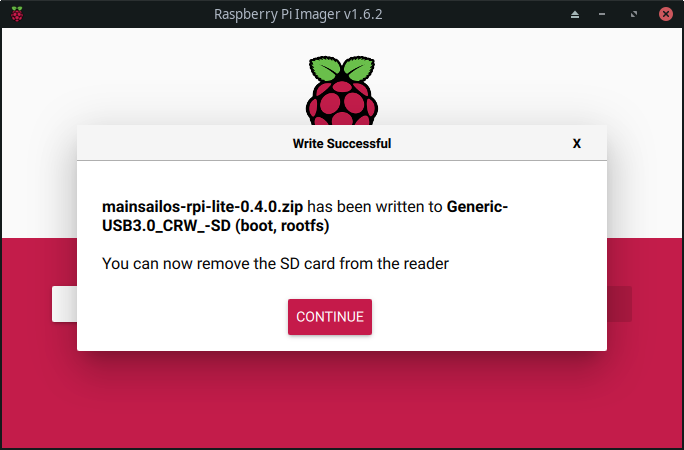
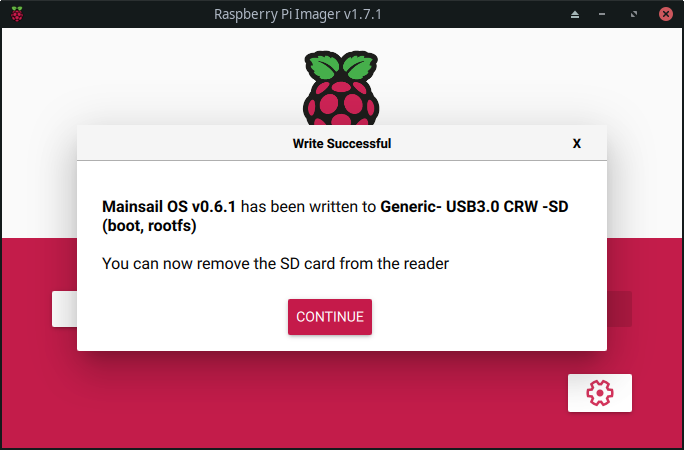
docs: updated MainsailOS Setup Guide using rpi-imager (#13)

diff --git a/setup-guide/mainsailos/pi-imager.md b/setup-guide/mainsailos/pi-imager.md
@@ -8,7 +8,8 @@ has_children: false
 permalink: /setup/mainsailos/pi-imager
 ---
 
-This method is cross-platform and works with Windows, Linux and MacOS
+This method is cross-platform and works with Windows, Linux and MacOS \
+Raspberry Pi Imager appearance may vary depending on the host OS.
 {: .info}
 
 We **strongly** recommend you use a premium SD card from a reputable manufacturer such as Sandisk, Kingston or Samsung, using an "A1" (or better) grade SD card. \
@@ -19,57 +20,91 @@ Low end cards will often fail quickly when used in this application.
 **FLASHING WILL DESTROY ALL DATA ON YOUR SD CARD AND CANNOT BE REVERSED**
 {: .alert}
 
-____
+---
 
 # Preparation
 
-*  [Download](https://github.com/mainsail-crew/MainsailOS/releases) the latest MainsailOS release (don't unpack the zip; you don't need to).
-*  [Download](https://www.raspberrypi.org/software/) and install the latest Raspberry Pi Imager.
+* [Download](https://www.raspberrypi.org/software/) and install the latest Raspberry Pi Imager (v1.7.1).
 
 # Flashing MainsailOS
 
-Raspberry Pi Imager appearance may vary depending on the host OS.
-{: .info}
-
-
-*  When opening Raspberry Pi Imager you will be presented with the following:
+* When opening Raspberry Pi Imager you will be presented with the following:
 
 ![screenshot-imager-launched](img/rpi-imager-launched.png)
 
-* Select "CHOOSE OS", and a popup will open as illustrated below. Select "Use custom" and navigate to the MainsailOS zip you downloaded.
+* Select "CHOOSE OS", and a pop-up will open as illustrated below.
+* Scroll down to "Other specific-purpose OS"
 
-![screenshot-imager-popup](img/rpi-os-popup.png)
-![screenshot-imager-os-selected](img/rpi-choosen-os.png)
+![screenshot-imager-choose-specific](img/rpi-os-popup.png)
 
-* Click on "STORAGE" and select your desired SD card.
+* Select "3D printing"
 
-![screenshot-imager-sd-card-selection](img/rpi-sdcard.png)
+![screenshot-imager-3d-printing](img/rpi-3d-printing.png)
 
-* Hostname, Wi-Fi, language and numerous other settings can now be scrolled through and preconfigured in a hidden setup menu, opened by pressing:
+* Choose your prefered 3D printing OS (Mainsail for sure)
 
-```bash
-CTRL+SHIFT+X
-```
-As a bare minimum setup SSH and a network connection (unless wired) at this point, especially if performing a 'headless' installation.
+![screenshot-imager-os-mainsail](img/rpi-mainsailos.png)
+![screenshot-imager-os-mainsail-choosen](img/rpi-mainsailos-choosen.png)
+
+* After that is done click "STORAGE" and select your desired SD card.
+
+![screenshot-imager-choose-storage](img/rpi-choose-storage.png)
+
+* For example:
+
+![screenshot-imager-choose-storage2](img/rpi-choose-storage-2.png)
+
+* Hostname, Wi-Fi, language and numerous other settings can now be scrolled through and preconfigured in a setup menu, opened by clicking on the little cogwheel in the right corner.
+
+Please enable SSH! Otherwise, you were'nt able to connect via SSH.
 {: .info}
 
-![screenshot-imager-rpi-preconfig1](img/rpi-setup-1.png)
+![screenshot-imager-cogwheel](img/rpi-cogwheel.png)
 
-![screenshot-imager-rpi-preconfig2](img/rpi-setup-2.png)
+* Optional: Setup your preferred hostname
+
+If you change the hostname, the URL will be changed accordingly.\
+As shown in the screenshot below your URL will be **_http://mainsail.local_**
+{: .alert}
+
+![screenshot-imager-setup-ssh](img/rpi-setup-ssh.png)
+
+* Change your password, this step is highly recommended!
+
+**Please don't change the username!**  
+At this stage MainsailOS Setup relies on the user "pi".  
+We will change that in the future.
+{: .alert}
+
+![screenshot-imager-setup-username](img/rpi-setup-username.png)
+
+* If you want to use WiFi instead a wired connection,  
+  please configure your WiFi accordingly.
+
+![screenshot-imager-setup-wifi](img/rpi-setup-wifi.png)
+
+* The last step manages your Timezone and Keyboard Layout  
+  (Keyboard Layout may affect your language in some cases)
+
+![screenshot-imager-setup-timezone](img/rpi-timezone.png)
 
 * With all desired options preconfigured, click on "WRITE" and accept the warning.
 
+![screenshot-imager-write](img/rpi-write.png)
+
 ![screenshot-imager-warning](img/rpi-warning.png)
+
+* Imager will take some time to write the image to the SD card.  
+  _When it finished the transfer to your SD Card, it will verify your Image._
+
+![screenshot-imager-writing](img/rpi-writing.png)
 
 * The Imager will take some time to write the disc image to the SD card. When it's finished, click continue.
 
 ![screenshot-imager-write-finished](img/rpi-finished.png)
 
-Select the "CONTINUE" button and  unmount (safely remove) your newly flashed MainsailOS SD card.
-
 You are now ready to move on to the [first boot](first-boot) of MainsailOS.
 
-
 ---
-[< tool selection](../mainsail-os.md){: .btn }  [next step >](first-boot){: .btn }
 
+[< tool selection](../mainsail-os.md){: .btn } [next step >](first-boot){: .btn }
